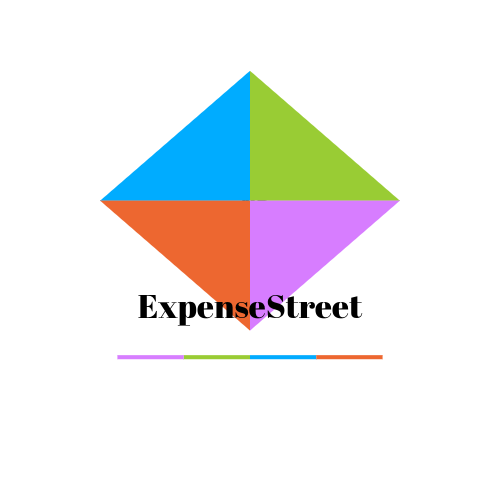
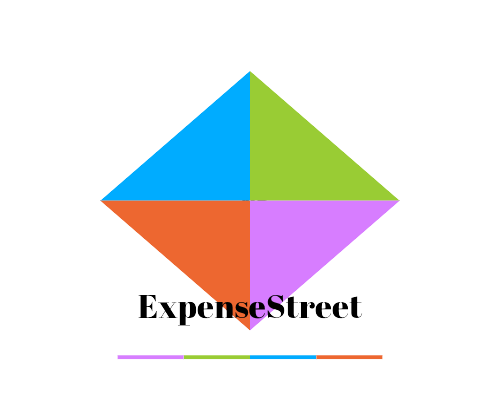
responsive view changes

Changed region(s): [[0.18, 0.1218, 0.81, 0.8528], [0.24, 0.8832, 0.78, 0.9137]]

diff --git a/src/component/welcome/Welcome.js b/src/component/welcome/Welcome.js
@@ -5,7 +5,7 @@ import { useNavigate } from 'react-router-dom'
 import { Footer } from './Footer'
 import { Chatbot } from '../chat/Chatbot'
 import usePreventZomm from '../usePreventZoom'
-import applogo from './images/ExpenseStreet.png'
+import applogo from './images/ExpenseStreet2.png'
 import exp1 from './images/exp1.gif'
 import exp2 from './images/exp2.png'
 import exp3 from './images/exp3.png'
@@ -13,8 +13,12 @@ import exp4 from './images/exp4.png'
 import exp5 from './images/exp5.gif'
 import exp6 from './images/exp6.png'
 import vid from './images/back.mp4'
+import { useMediaQuery } from 'react-responsive'
 
 export const Welcome = () => {
+
+  const isMobile = useMediaQuery({ query: '(max-width: 600px)' })
+
   usePreventZomm()
 
   const navigation = useNavigate()
@@ -35,23 +39,22 @@ export const Welcome = () => {
           </video>
         </div>
       </div>
-      {/* <div className='welcome' style={{ display: "flex", justifyContent: "center" }}> */}
       <div style={{ display: "flex", justifyContent: "center" }}>
-        <div style={{ width: "60%", backgroundColor: "white", marginTop: 100, borderTopLeftRadius: "20px", borderTopRightRadius: "20px", boxShadow: "0px 3px 6px 0px rgba(0,0,0,0.16),0px 3px 6px 0px rgba(0,0,0,0.23)" }}>
+        <div style={{ width: isMobile ? "100%" : "60%", backgroundColor: "white", marginTop: 100, borderTopLeftRadius: "20px", borderTopRightRadius: "20px", boxShadow: "0px 3px 6px 0px rgba(0,0,0,0.16),0px 3px 6px 0px rgba(0,0,0,0.23)" }}>
           <div>
             <div style={{ display: "flex", justifyContent: "center" }}>
-              <img src={applogo} alt="" draggable="false" style={{ width: 620 }} />
+              <img src={applogo} alt="" draggable="false" style={{ width: isMobile ? 300 : 620 }} />
             </div>
             <div>
               <div className='d-flex justify-content-center'>
                 <div className='d-flex py-3'>
                   <span>
-                    <h1><pre style={{ fontFamily: 'Lora, serif', color: "black" }}> <b>ExpenseStreet</b> </pre></h1>
+                    <h1><pre style={{ fontFamily: 'Lora, serif', color: "black", display:isMobile?"none":"" }}> <b>ExpenseStreet</b> </pre></h1>
                   </span>
-                  <h1 style={{ fontFamily: 'Lora, serif', color: "black" }}>
+                  <h2 style={{ fontFamily: 'Lora, serif', color: "black" }}>
                     <Typewriter
                       options={{
-                        strings: ['<b>Manage your Expenses</b>',
+                        strings: ['Manage your Expenses',
                           'Manage your Income',
                           'Manage your Budget',
                           'Analysis your Data'],
@@ -60,7 +63,7 @@ export const Welcome = () => {
                         pauseFor: 1500
                       }}
                     />
-                  </h1>
+                  </h2>
                 </div>
               </div>
             </div>
@@ -70,32 +73,34 @@ export const Welcome = () => {
             </div>
             <div>
               <div className='row'>
-                <div className='col-6'>
-                  <img src={exp1} alt="" draggable="false" style={{ width: 350 }} />
+                <div className='col-md-6 d-flex justify-content-center'>
+                  <img src={exp1} alt="" draggable="false" style={{ width: isMobile ? 200 : 350 }} />
                 </div>
-                <div className='col-6'>
+                <div className='col-md-6'>
                   <h4 className='text-center' style={{ marginTop: 55 }}>Data visualization</h4>
                   <p className='px-3'>
                     It aims to communicate insights and patterns in data through visual elements such as charts, graphs, maps, and infographics. By presenting data visually, complex information becomes more accessible, allowing viewers to understand trends, correlations, and outliers more easily.
                   </p>
                 </div>
               </div>
+              <hr style={{ margin: 10 }} />
               <div className='row'>
-                <div className='col-6'>
+                <div className='col-md-6'>
                   <h4 className='text-center' style={{ marginTop: 55 }}>Authentication</h4>
                   <p className='px-3'>
                     authentication stands as the guardian of our digital fortresses. Our authentication method represents the pinnacle of security and user experience, setting a new standard in safeguarding sensitive information while ensuring seamless access.
                   </p>
                 </div>
-                <div className='col-6'>
-                  <img src={exp2} alt="" draggable="false" style={{ width: 350 }} />
+                <div className='col-md-6 d-flex justify-content-center'>
+                  <img src={exp2} alt="" draggable="false" style={{ width: isMobile ? 200 : 350 }} />
                 </div>
               </div>
+              <hr style={{ margin: 10 }} />
               <div className='row'>
-                <div className='col-6'>
-                  <img src={exp3} alt="" draggable="false" style={{ width: 350 }} />
+                <div className='col-md-6 d-flex justify-content-center'>
+                  <img src={exp3} alt="" draggable="false" style={{ width: isMobile ? 200 : 350 }} />
                 </div>
-                <div className="col-6">
+                <div className="col-md-6">
                   <h4 className="text-center" style={{ marginTop: 55 }}>Reminder</h4>
                   <p className="px-3">
                     Our application is designed to provide gentle reminders, ensuring you stay on track with your commitments and deadlines effortlessly. With our intuitive interface and customizable settings, you can easily schedule reminders for important events, tasks, or appointments.
@@ -103,37 +108,40 @@ export const Welcome = () => {
                   </p>
                 </div>
               </div>
+              <hr style={{ margin: 10 }} />
               <div className='row'>
-                <div className="col-6">
+                <div className="col-md-6">
                   <h4 className="text-center" style={{ marginTop: 55 }}>News</h4>
                   <p className="px-3">
                     Our curated selection of business news sources ensures that you receive relevant and high-quality content tailored to your interests. Whether you're interested in finance, technology, entrepreneurship, or global markets, our application provides a comprehensive overview of the latest headlines and analysis from trusted sources.
                   </p>
                 </div>
-                <div className='col-6'>
-                  <img src={exp4} alt="" draggable="false" style={{ width: 300 }} />
+                <div className='col-md-6 d-flex justify-content-center'>
+                  <img src={exp4} alt="" draggable="false" style={{ width: isMobile ? 200 : 300 }} />
                 </div>
               </div>
+              <hr style={{ margin: 10 }} />
               <div className='row'>
-                <div className='col-6'>
-                  <img src={exp5} alt="" draggable="false" style={{ width: 330 }} />
+                <div className='col-md-6 d-flex justify-content-center'>
+                  <img src={exp5} alt="" draggable="false" style={{ width: isMobile ? 200 : 330 }} />
                 </div>
-                <div className="col-6">
+                <div className="col-md-6">
                   <h4 className="text-center" style={{ marginTop: 55 }}>Budget</h4>
                   <p className="px-3">
                     Allow users to set financial goals such as saving for a vacation, buying a house, paying off debt, etc. The application can help track progress towards these goals and provide recommendations on how to achieve them faster.
                   </p>
                 </div>
               </div>
+              <hr style={{ margin: 10 }} />
               <div className='row'>
-                <div className="col-6">
+                <div className="col-md-6">
                   <h4 className="text-center" style={{ marginTop: 55 }}>Updates</h4>
                   <p className="px-3">
                     Frequent updates and bug fixes are essential for maintaining a high-quality user experience and ensuring the security and stability of the application.
                   </p>
                 </div>
-                <div className='col-6'>
-                  <img src={exp6} alt="" draggable="false" style={{ width: 260 }} />
+                <div className='col-md-6 d-flex justify-content-center'>
+                  <img src={exp6} alt="" draggable="false" style={{ width: isMobile ? 200 : 260 }} />
                 </div>
               </div>
             </div>
@@ -141,9 +149,9 @@ export const Welcome = () => {
         </div>
       </div>
       <div>
-        <Footer />
+        {/* <Footer /> */}
       </div>
-      <Chatbot />
+      {/* <Chatbot /> */}
     </>
   )
 }

diff --git a/src/component/welcome/WelcomeNavbar.js b/src/component/welcome/WelcomeNavbar.js
@@ -10,21 +10,29 @@ export const WelcomeNavbar = () => {
 
   return (
     <>
-      <nav className="navbar bg-body-tertiary" style={{ boxShadow: "0px 15px 10px -15px #111", position: "fixed", width: "100%", zIndex: 1000, backgroundColor: "white" }}>
+      <nav className="navbar navbar-expand-lg navbar-light bg-light" style={{ boxShadow: "0px 15px 10px -15px #111", position: "fixed", width: "100%", zIndex: 1000, backgroundColor: "white" }}>
         <div className="container-fluid">
-          <div className='d-flex'>
-            <Link className="navbar-brand" to="/" style={{ color: "black" }}>
-              {/* <img src={icon} alt="Logo" width="30" height="24" className="d-inline-block align-text-top" /> */}
-              <b>ExpenseStreet</b>
-            </Link>
-            <Button type='text' style={{ paddingTop: 8 }} onClick={() => { navigate("/about") }}><strong style={{ color: "black" }}>About</strong></Button>
-            {/* <Button type='text' block><GithubOutlined size={10} /></Button> */}
-            <Link className='btn btn-light btn-sm mx-2 my-1' target='blank' to="https://github.com/rushidurge2003"><GithubOutlined size={10} /></Link>
+          <Link className="navbar-brand" to="/" style={{ color: "black" }}> <b>ExpenseStreet</b></Link>
+          <button class="navbar-toggler" type="button" data-bs-toggle="collapse" data-bs-target="#navbarNav" aria-controls="navbarNav" aria-expanded="false" aria-label="Toggle navigation">
+            <span class="navbar-toggler-icon"></span>
+          </button>
+          <div class="collapse navbar-collapse" id="navbarNav">
+            <ul class="navbar-nav me-auto mb-2 mb-lg-0">
+              <li className='nav-item'><Button type='text' style={{ paddingTop: 8 }} onClick={() => { navigate("/about") }}><strong style={{ color: "black" }}>About</strong></Button></li>
+              <li className='nav-item'><Link className='btn btn-light btn-sm mx-2 my-1' target='blank' to="https://github.com/rushidurge2003"><GithubOutlined size={10} /></Link></li>
+              <li className='nav-item'><Link className='btn btn-dark btn-sm mx-2' to="/login">Login</Link></li>
+              <li className='nav-item'><Link className='btn btn-dark btn-sm' to="/signup">Sign Up</Link></li>
+            </ul>
+            <div>
+
+
+            </div>
+            <div>
+
+
+            </div>
           </div>
-          <div className='d-flex'>
-            <Link className='btn btn-dark btn-sm mx-2' to="/login">Login</Link>
-            <Link className='btn btn-dark btn-sm' to="/signup">Sign Up</Link>
-          </div>
+
         </div>
       </nav>
     </>
